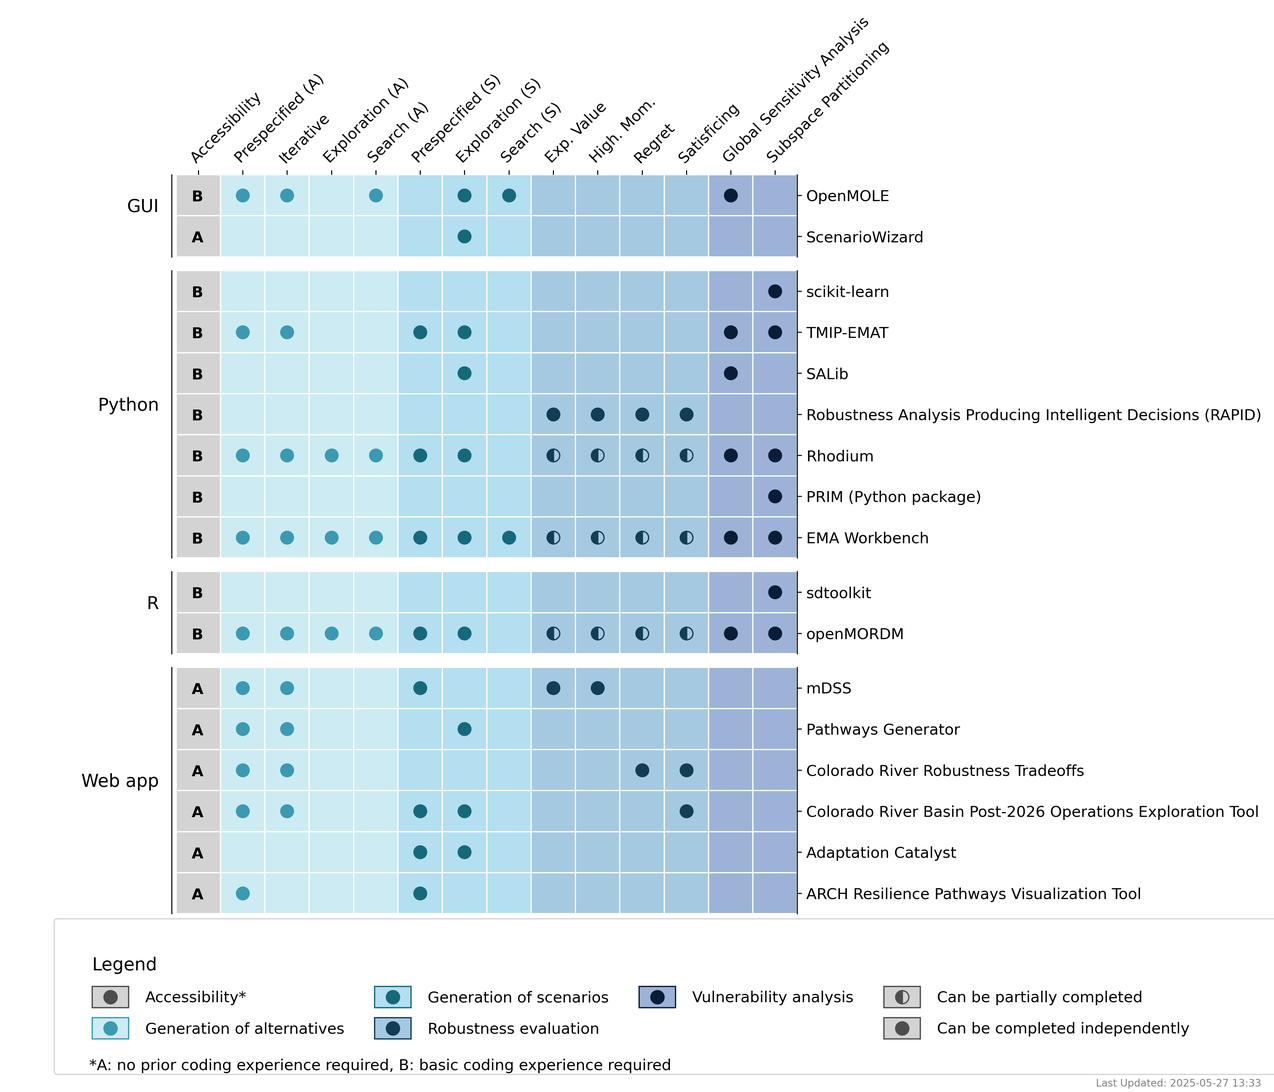
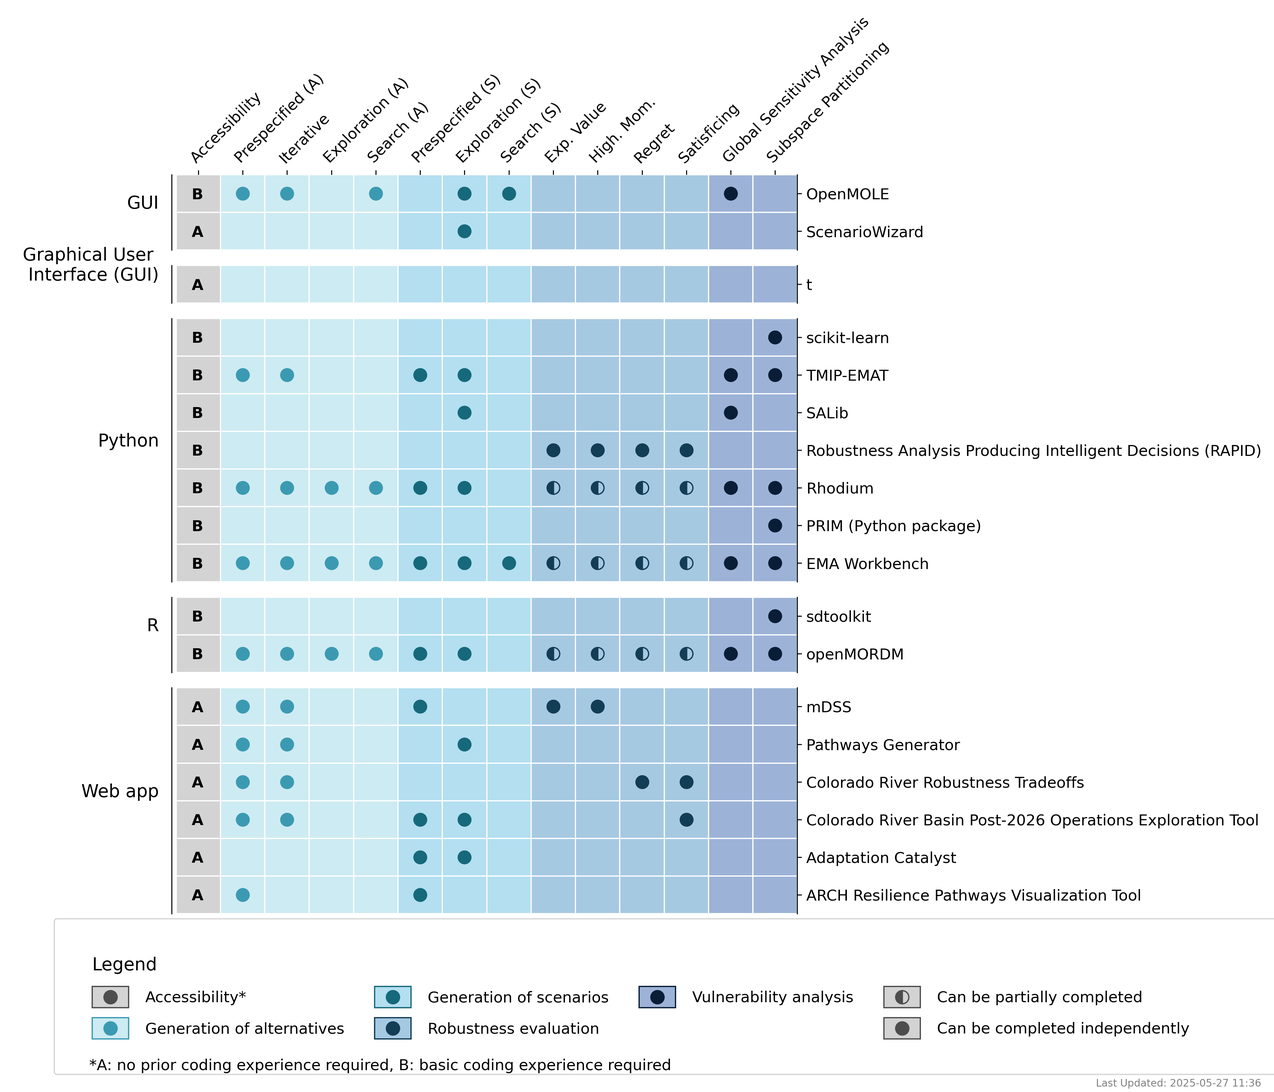
Auto-update from Google Sheet

diff --git a/outputs/table_resources.html b/outputs/table_resources.html
@@ -29,176 +29,177 @@
             </tr>
         </thead>
         <tbody>
-
+    
             <tr>
                 <td>Abad et al. (2018)</td>
                 <td>The serious game 'RAMSETE III' simulates crisis management decision-making under uncertainty. Players collaborate to handle evacuation timing during a storm, learning effective communication and strategic planning in critical situations.</td>
                 <td><a href="https://dkkv.org/en/topics/serious-games-eng/" target="_blank">Link</a></td>
             </tr>
-
+        
             <tr>
                 <td>Baker et al. (2019)</td>
                 <td>Guidance for decision-making in water resource management, focusing on investment appraisal and optimization for long-term planning. The framework emphasizes sustainability and robustness in resource allocation.</td>
                 <td><a href="https://ukwir.org/WRMP-2019-Methods-Decision-Making-Process-Guidance" target="_blank">Link</a></td>
             </tr>
-
+        
             <tr>
                 <td>Bonham et al. (2025)</td>
                 <td>This scientific resource reviews existing vulnerability analysis approaches in the context of DMDU to offer a taxonomy and different use purposes</td>
                 <td><a href="https://doi.org/10.1016/j.envsoft.2024.106269" target="_blank">Link</a></td>
             </tr>
-
+        
             <tr>
                 <td>Bosomworth et al. (2015)</td>
                 <td>A playbook guiding users through climate change adaptation pathways. It outlines five key activities ('plays') for planning and adaptation, with brief descriptions and references to additional resources for detailed guidance.</td>
                 <td><a href="https://terranova.org.au/repository/southern-slopes-nrm-collection/adaptation-pathways-a-playbook-for-developing-options-for-climate-change-adaptation-in-natural-resource-management/scarp-adaptation-pathways-a-playbook-final.pdf" target="_blank">Link</a></td>
             </tr>
-
+        
             <tr>
                 <td>California Sea Level Rise Guidance (2024)</td>
                 <td>This report integrates the best available science on sea level rise and coastal hazards. It provides practical guidance for planning under different scenarios, including adaptation pathways for Californiaâ€™s coastal management.</td>
                 <td><a href="https://digitalcommons.humboldt.edu/hsuslri_state/61/" target="_blank">Link</a></td>
             </tr>
-
+        
             <tr>
                 <td>Coulter (2019)</td>
                 <td>Two reports provide guidance for agricultural communities on shared adaptation goals and pathways. A technical guide complements this with a detailed application of adaptation in food production, including a hypothetical case study.</td>
                 <td><a href="https://www2.gov.bc.ca/assets/gov/farming-natural-resources-and-industry/agriculture-and-seafood/agricultural-land-and-environment/climate-action/user-guide-adaptation-pathways-preparedness.pdf" target="_blank">Link</a></td>
             </tr>
-
+        
             <tr>
                 <td>Curran et al. (2023)</td>
                 <td>A guide for planning under uncertainty, offering methods for decision-making in sectors like land-use, infrastructure, and coastal adaptation. It distinguishes between creation and analysis approaches, with examples from various fields.</td>
                 <td><a href="https://deepsouthchallenge.co.nz/resource/decision-making-uncertain-world/" target="_blank">Link</a></td>
             </tr>
-
+        
             <tr>
                 <td>Danish Coastal Authority (2020)</td>
                 <td>A concise guide to dynamic planning for climate adaptation and flood risk management. It aims to help municipalities in Denmark adopt adaptive, risk-based approaches to planning and mitigation.</td>
                 <td><a href="https://kyst.dk/media/jw2fz3fo/guide-to-dynamic-planning-of-climate-adaptation-and-management-of-the-risk-of-flooding-in-muni.pdf" target="_blank">Link</a></td>
             </tr>
-
+        
             <tr>
                 <td>Deltares (2016)</td>
                 <td>Sustainable Delta' is a serious game for stakeholders to understand water systems and plan restoration measures. Teams develop a water management plan addressing challenges like flooding and drought in fictional river settings.</td>
                 <td><a href="https://www.deltares.nl/en/software-and-data/products/sustainable-delta-game" target="_blank">Link</a></td>
             </tr>
-
+        
             <tr>
                 <td>Ferranti et al. (2021)</td>
                 <td>This briefing introduces adaptation pathways for infrastructure resilience under uncertain future climate conditions. It includes a framework with nine steps for developing pathways (e.g., defining scope, identifying hazards, generating options, and evaluating pathways). Case studies from the Thames Estuary, Dutch Delta Programme, and others illustrate the method, alongside stakeholder feedback and benefits. The approach combines Quinn et al.'s (2018) Rail Adapt framework with practical applications for UK infrastructure planning.</td>
                 <td><a href="https://pure-oai.bham.ac.uk/ws/portalfiles/portal/161486771/Ferranti_etal_2021_adaptation_pathways.pdf" target="_blank">Link</a></td>
             </tr>
-
+        
             <tr>
                 <td>Lempert et al. (2021)</td>
                 <td>A guide for incorporating Decision Making Under Deep Uncertainty (DMDU) into transportation planning. It reviews methods like scenario planning and Adaptive Pathways, with steps for applying these techniques to IDB projects.</td>
                 <td><a href="http://dx.doi.org/10.18235/0003042" target="_blank">Link</a></td>
             </tr>
-
+        
             <tr>
                 <td>Marchau et al. (2019)</td>
                 <td>This can be seen as the general introduction to DMDU. It offers insights into the underlying concepts and provides examples for all relevant cases</td>
                 <td><a href="https://doi.org/10.1007/978-3-030-05252-2" target="_blank">Link</a></td>
             </tr>
-
+        
             <tr>
                 <td>Mendoza et al. (2018)</td>
                 <td>A decision-making framework for climate risk-informed analysis (CRIDA), targeting water resource managers and infrastructure planners. It supports robust planning under uncertainty for flood risk and water supply management.</td>
                 <td><a href="https://static1.squarespace.com/static/5e8397698c906c4df39838f5/t/63724f4de5ed8741eb4bac94/1668435791913/CRIDA_June_2022.pdf" target="_blank">Link</a></td>
             </tr>
-
+        
             <tr>
                 <td>Ministry for the Environment (2024)</td>
                 <td>New Zealand's Ministry developed this guidance for adapting to coastal hazards under climate change. It follows a 10-step decision cycle, integrating short- and long-term planning for adaptive pathways and coastal risk management.</td>
                 <td><a href="https://environment.govt.nz/assets/publications/Coastal-hazards-and-climate-change-guidance-2024-ME-1805.pdf" target="_blank">Link</a></td>
             </tr>
-
+        
             <tr>
                 <td>Onencan et al. (2016)</td>
                 <td>WeShareIt' is a collaborative board game for policymakers to balance energy, food, and nature needs at basin and national levels. Players explore strategies to strengthen collaboration and prepare for future uncertainties.</td>
                 <td><a href="https://doi.org/10.1016/j.proeng.2016.08.185" target="_blank">Link</a></td>
             </tr>
-
+        
             <tr>
                 <td>Pathways2Resilience (2024)</td>
                 <td>Pathways2Resilience project guidance outlines a step-by-step Regional Resilience Journey framework. It includes climate strategy, action, and finance plans, tailored for project managers and technical experts. Scenarios are addressed briefly.</td>
                 <td><a href="https://www.pathways2resilience.eu/docs/delivrable/101093942_P2R_D6.3.pdf" target="_blank">Link</a></td>
             </tr>
-
+        
             <tr>
                 <td>Petersen et al. (2013)</td>
                 <td>Guidance on managing and communicating uncertainty in assessments. It supports analysts in addressing critical uncertainties, framing problems, and involving stakeholders, leading to better decision-making under uncertainty.</td>
                 <td><a href="https://www.pbl.nl/en/publications/guidance-for-uncertainty-assessment-and-communication" target="_blank">Link</a></td>
             </tr>
-
+        
             <tr>
                 <td>Polster et a. (2024)</td>
                 <td>A handbook on quantifying climate risks for hazards like floods, droughts, and heatwaves. It includes tools for customizing and uploading CRAs (climate risk assessments), fostering iterative learning with future scenario exploration.</td>
                 <td><a href="https://handbook.climaax.eu/CRA_steps/CRM.html" target="_blank">Link</a></td>
             </tr>
-
+        
             <tr>
                 <td>Ray & Brown (2015)</td>
                 <td>This guidance was developed to introduce a climate stress-testing methodology for water resource managenet infrastrucutre. It offers insights in the funcamental concepts, the how-to guidance and a specific case for illustration. Furthermore high-level information are provided regarding other DMDU methologies.</td>
                 <td><a href="https://doi.org/10.1596/978-1-4648-0477-9" target="_blank">Link</a></td>
             </tr>
-
+        
             <tr>
                 <td>Reed et al. (2024)</td>
                 <td>This guidance text has been developed in support of the Integrated Multisector Multiscale Modeling (IM3) Science Focus Area’s objective to formally integrate uncertainty into its research tasks. The guidance offers a deep-dive into methods to be used for sensitivity analysis and exploration of uncertainty. Along the introduction of the underlying concepts, the resource offers tutorials for the application.</td>
                 <td><a href="https://doi.org/10.5281/zenodo.6110623" target="_blank">Link</a></td>
             </tr>
-
+        
             <tr>
                 <td>Rissik et al. (2014)</td>
                 <td>A technical guide for Australian natural resource managers on adaptation planning. It addresses challenges intensified by climate change and outlines a flexible planning framework to remain effective under changing conditions.</td>
                 <td><a href="https://adaptnrm.csiro.au/wp-content/uploads/2014/06/AdaptNRM-Adapt-Planning-Tech-Guide1.pdf" target="_blank">Link</a></td>
             </tr>
-
+        
             <tr>
                 <td>Siebentritt & Stafford (2016)</td>
                 <td>A non-technical guide to developing and applying adaptation pathways in organizations, emphasizing critical elements for participatory planning. The process is adaptable for quantitative inputs but focuses on user-friendly methods.</td>
                 <td><a href="https://climatelondon.org/wp-content/uploads/2019/10/User-Guide-for-Applied-Adaptation-Pathways.pdf" target="_blank">Link</a></td>
             </tr>
-
+        
             <tr>
                 <td>USACE (2019)</td>
                 <td>An engineering pamphlet offering procedural guidance for analyzing future sea level change (SLC) impacts on USACE projects. It focuses on assessing physical and ecological risks, but not as formal planning guidance.</td>
                 <td><a href="https://www.publications.usace.army.mil/Portals/76/Users/182/86/2486/EP-1100-2-1.pdf" target="_blank">Link</a></td>
             </tr>
-
+        
             <tr>
                 <td>Wallis et al. (2015)</td>
                 <td>Two complementary reports: a playbook on adaptation pathways detailing five activities and a technical report exploring these steps in depth. The latter includes links to resources and literature, enhancing understanding of climate change adaptation planning.</td>
                 <td><a href="https://terranova.org.au/repository/southern-slopes-nrm-collection/southern-slopes-information-portal-report-climate-change-adaptation-information-for-natural-resource-planning-and-implementation-1" target="_blank">Link</a></td>
             </tr>
-
+        
             <tr>
                 <td>Wardekker et al. (2020)</td>
                 <td>This approach integrates incremental, participatory scenario planning with local communities to develop desirable futures. It inventories 'hinge points' for critical challenges and uses real-world case studies to refine methods.</td>
                 <td><a href="http://dx.doi.org/10.13140/RG.2.2.15554.81601/1" target="_blank">Link</a></td>
             </tr>
-
+        
             <tr>
                 <td>Warren et al. (2021)</td>
                 <td>This technical guidance introduces the use of Dynamic Adaptive Pathways Planning as an approach for dealing with (deep) uncertainties in integrated flood risk management, and is intended for use by ADB officers and Developing member countries partners.</td>
                 <td><a href="https://www.adb.org/sites/default/files/project-documents/52014/52014-001-tacr-en_2.pdf" target="_blank">Link</a></td>
             </tr>
-
+        
             <tr>
                 <td>Water Programming Blog (n.d.)</td>
                 <td>A blog by Pat Reed's team at Cornell focusing on computational approaches like Multiobjective Evolutionary Algorithms, simulation models, and visualization for solving complex planning problems.</td>
                 <td><a href="https://waterprogramming.wordpress.com/" target="_blank">Link</a></td>
             </tr>
-
+        
             <tr>
                 <td>van den Ende et al. (2021)</td>
                 <td>A step-by-step guide on engaging citizens in foresight exercises to build climate-resilient futures. It includes methods like exploratory scenarios, pathways, and case studies from multiple European countries.</td>
                 <td><a href="https://doi.org/10.1007/978-3-031-07682-4" target="_blank">Link</a></td>
             </tr>
-
+        
         </tbody>
     </table>
     </body>
     </html>
+    

diff --git a/outputs/table_tools.html b/outputs/table_tools.html
@@ -29,110 +29,117 @@
             </tr>
         </thead>
         <tbody>
-
+    
             <tr>
                 <td>ARCH Resilience Pathways Visualization Tool</td>
                 <td>The RPVT provides a user-friendly graphical interface to create and visualize resilience pathways. It allows users to select, prioritize, and sequence different possible measures over time, which can be deployed as circumstances evolve. Measures can be selected and prioritized according to various performance metrics, primarily addressing floods and heatwaves, but also earthquakes and drought/water scarcity.</td>
                 <td><a href="https://rpvt.arch.urban.tecnalia.dev/" target="_blank">Link</a></td>
             </tr>
-
+        
             <tr>
                 <td>Adaptation Catalyst</td>
                 <td>The Adaptation Catalyst is a software tool designed to help overcome the ‘implementation gap’ in realizing adaptive capacity, to get from research and design to actual realization of measures. The AC does this by offering the possiblity to assemble primary information about climate pressure and the adaptive capacity of measures into one overview. This is the information that usually results from climate effect and adaptation options research projects. Added to this is functionality to interactively vary climate pressure and characteristics of measures, and instantly view what the result of these changes are on adaptive capacity, co-benefits and costs. This will help create awareness, help with chosing and planning of measures and support decision making about adaptation strategies.</td>
                 <td><a href="https://publicwiki.deltares.nl/spaces/AP/pages/142674737/Adaptation+Catalyst" target="_blank">Link</a></td>
             </tr>
-
+        
             <tr>
                 <td>Colorado River Basin Post-2026 Operations Exploration Tool</td>
                 <td>This is a flexible, powerful platform designed to allow Colorado River Basin stakeholders and the public to explore operational strategies for Lake Powell and Lake Mead as part of the Post-2026 National Environmental Policy Act (NEPA) Process. This tool is intended to support early-stage exploration of operational strategies that may eventually be incorporated into the Post-2026 NEPA alternatives. For more information on this NEPA process, see Colorado River Post-2026 Operations.</td>
                 <td><a href="https://www.crbpost2026dmdu.org/" target="_blank">Link</a></td>
             </tr>
-
+        
             <tr>
                 <td>Colorado River Robustness Tradeoffs</td>
                 <td>This app is a decision support dashboard for the Bureau of Reclamation to identify robust water management policies in the Colorado River Basin. Water managers filter policies by performance objectives, robustness metrics, and decision variables.</td>
                 <td><a href="https://nabocrb.shinyapps.io/CRB-Robustness-App-Shiny-Contest/" target="_blank">Link</a></td>
             </tr>
-
+        
             <tr>
                 <td>EMA Workbench</td>
                 <td>Exploratory Modeling and Analysis (EMA) is a research methodology that uses computational experiments to analyze complex and uncertain systems (Bankes, 1993). That is, exploratory modeling aims at offering computational decision support for decision making under deep uncertainty and Robust Decision Making.</td>
                 <td><a href="https://emaworkbench.readthedocs.io/en/latest/" target="_blank">Link</a></td>
             </tr>
-
+        
             <tr>
                 <td>OpenMOLE</td>
                 <td>OpenMOLE has been developed since 2008 as a free and open-source platform. It offers tools to run, explore, diagnose and optimize your numerical model, taking advantage of distributed computing environments. With OpenMOLE you can explore your already developed model, in any language (Java, Binary exe, NetLogo, R, SciLab, Python, C++, etc.)</td>
                 <td><a href="https://openmole.org/" target="_blank">Link</a></td>
             </tr>
-
+        
             <tr>
                 <td>PRIM (Python package)</td>
                 <td>Prim's algorithm is a greedy algorithm used to find the Minimum Spanning Tree (MST) of a connected, undirected graph. The MST is a subset of the edges that connects all vertices in the graph with the minimum possible total edge weight.</td>
                 <td><a href="https://pypi.org/project/PRIM/0.1/" target="_blank">Link</a></td>
             </tr>
-
+        
             <tr>
                 <td>Pathways Generator</td>
                 <td>The Pathways Generator Tool (PG) develops pathways maps to define the solution for space and allow comparison of alternative pathways into the future, via evaluations of costs, benefits and co-benefits. Together, DAPP and the PG have been used for flood risk in Miami, water supply in San Francisco and coastal flooding in Aveiro, Portugal, among others.</td>
                 <td><a href="https://deltares-research.github.io/PathwaysGenerator/" target="_blank">Link</a></td>
             </tr>
-
+        
             <tr>
                 <td>Rhodium</td>
                 <td>Rhodium is an open source Python library for robust decision making (RDM), many-objective robust decision making (MORDM), and exploratory modeling. These decision-support frameworks enable the identification of robust strategies for the management of complex environmental systems, by evaluating the tradeoffs among candidate strategies, and characterizing their vulnerabilities. Robust strategies refer to management options that perform sufficiently well or acceptably under a range of potential system conditions, rather than optimally in a single, nominal state of the world. Exploratory modeling allows for the simulation of the system under an ensemble of states of the world, so as to discover the ones with consequential effects on the system. Rhodium facilitates rapid application of the RDM and MORDM frameworks by providing a suite of optimization, visualization, scenario discovery, and sensitivity analysis functions. Rhodium is written in Python and can interface with models written in Python, C and C++, Fortran, R, and Excel.</td>
                 <td><a href="https://github.com/Project-Platypus/Rhodium" target="_blank">Link</a></td>
             </tr>
-
+        
             <tr>
                 <td>Robustness Analysis Producing Intelligent Decisions (RAPID)</td>
                 <td>To aid decision making about environmental systems under deep uncertainty, robustness metrics are commonly used to represent system performance over a number of scenarios. However, there are many robustness metrics and many ways of generating scenarios, making it difficult to know which to choose in order to quantify system robustness and to make robust decisions. To address this shortcoming, we introduce a generic guidance framework to assist with the identification of the most robust decision alternatives, as well as the RAPID (Robustness Analysis Producing Intelligent Decisions) software package which is a consistent and easy-to-use implementation of the framework.</td>
                 <td><a href="https://github.com/cameronmcphail/RAPID" target="_blank">Link</a></td>
             </tr>
-
+        
             <tr>
                 <td>SALib</td>
                 <td>Python implementations of commonly used sensitivity analysis methods, including Sobol, Morris, and FAST methods. Useful in systems modeling to calculate the effects of model inputs or exogenous factors on outputs of interest.</td>
                 <td><a href="https://salib.readthedocs.io/en/latest/" target="_blank">Link</a></td>
             </tr>
-
+        
             <tr>
                 <td>ScenarioWizard</td>
                 <td>The ScenarioWizard software was developed to perform CIB analysis and has been used, tested and further developed in numerous application projects and method experiments. It is provided in two versions: ScenarioWizard for Windows and ScenarioWizard Online. Both versions can be used free of charge. The data formats of both versions are compatible so that the project files can be shared between the two versions.</td>
                 <td><a href="https://www.cross-impact.org/english/CIB_e_ScW.htm" target="_blank">Link</a></td>
             </tr>
-
+        
             <tr>
                 <td>TMIP-EMAT</td>
                 <td>TMIP-EMAT is a methodological approach to exploratory modeling and analysis. It provides a window to rigorous analytical methods for handling uncertainty and making well informed decisions using travel forecasting models of all types. It is designed to integrate with an existing transportation model or tool to perform exploratory analysis of a range of possible scenarios.</td>
                 <td><a href="https://tmip-emat.github.io/tmip-emat/dev/" target="_blank">Link</a></td>
             </tr>
-
+        
             <tr>
                 <td>mDSS</td>
                 <td>mDSS is a Decision Support System tool to facilitate participatory processes for the sustainable and integrated – economic, social and environmental – management of natural resources.</td>
                 <td><a href="http://netsymod.eu/mdss/" target="_blank">Link</a></td>
             </tr>
-
+        
             <tr>
                 <td>openMORDM</td>
                 <td>OpenMORDM is an open-source R library for Multiobjective Robust Decision Making (MORDM). The design of OpenMORDM and a walkthrough of applying MORDM to an environmental model is detailed in the following journal article: Hadka, D., Herman, J., Reed, P.M., Keller, K. An Open Source Framework for Many-Objective Robust Decision Making. Environmental Modelling & Software, 74:114-129, 2015. DOI:10.1016/j.envsoft.2015.07.014.</td>
                 <td><a href="https://github.com/OpenMORDM/OpenMORDM" target="_blank">Link</a></td>
             </tr>
-
+        
             <tr>
                 <td>scikit-learn</td>
                 <td>Scikit-learn is an open source machine learning library that supports supervised and unsupervised learning. It also provides various tools for model fitting, data preprocessing, model selection, model evaluation, and many other utilities.</td>
                 <td><a href="https://scikit-learn.org/stable/" target="_blank">Link</a></td>
             </tr>
-
+        
             <tr>
                 <td>sdtoolkit</td>
                 <td>The package provides interactive functions for scenario discovery, stepping the user through the use of PRIM. PRIM identifies "boxes" in parameter space with "interesting" scenarios, i.e. bounds on parameters where scenarios meets some pre-defined criteria.</td>
                 <td><a href="https://uncertainfutures.github.io/tools/sdtoolkit/" target="_blank">Link</a></td>
             </tr>
-
+        
+            <tr>
+                <td>t</td>
+                <td>f</td>
+                <td><a href="t" target="_blank">Link</a></td>
+            </tr>
+        
         </tbody>
     </table>
     </body>
     </html>
+    
